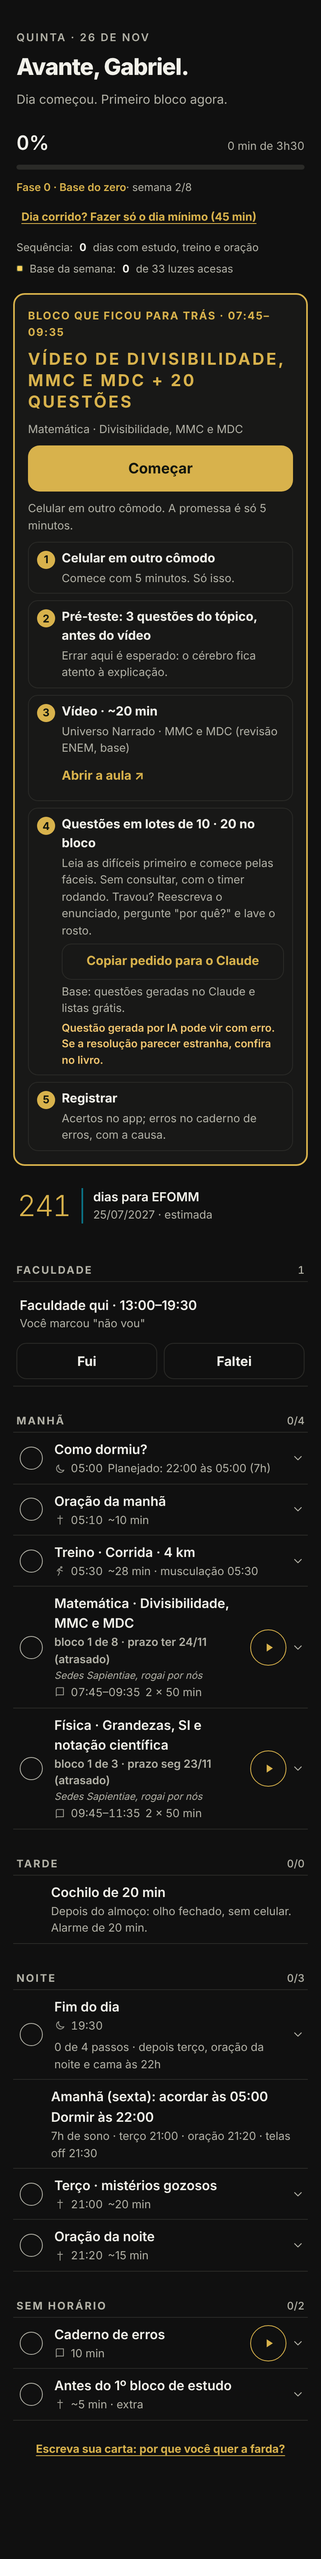
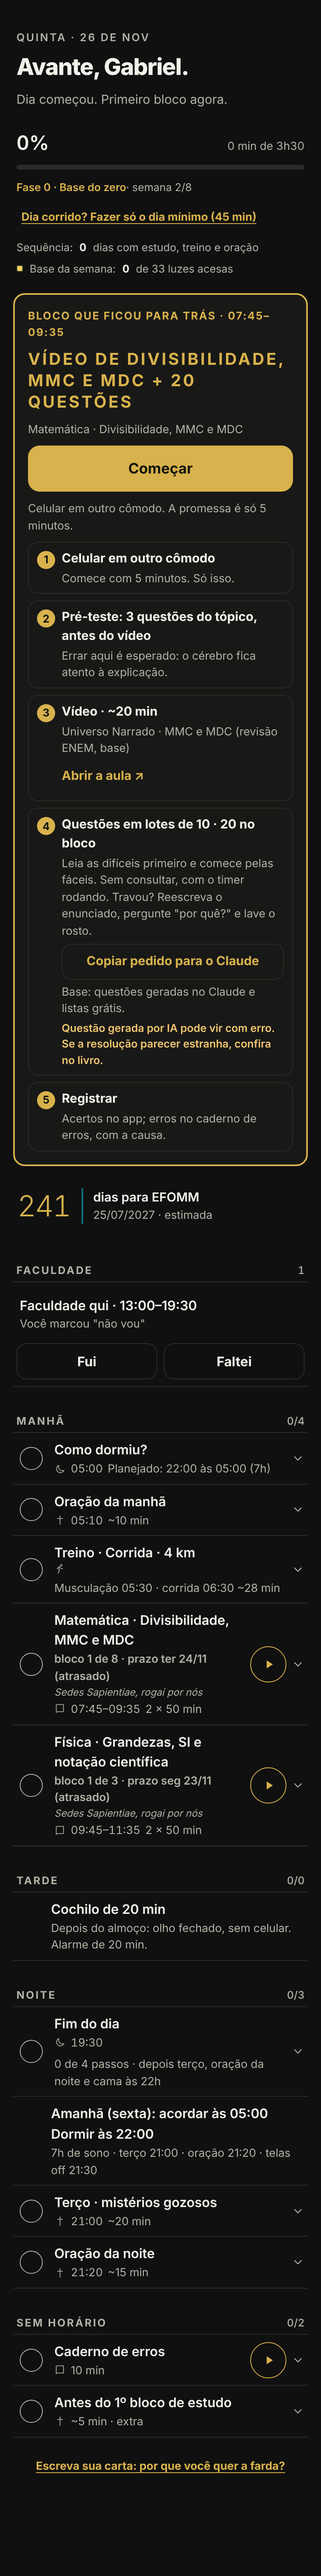
WIP: correções do revisor na rotina 41h (checkpoint)
Claude-Session: https://claude.ai/code/session_018XmdgBTzAW2i8pzxkZNDQ8

diff --git a/src/stores/app.svelte.js b/src/stores/app.svelte.js
@@ -11,7 +11,7 @@ import { treinar } from '../lib/erros.js';
 import { montar } from '../lib/backup.js';
 import { migrarCfg } from '../lib/migracao.js';
 import { migrarLacunas, migrarDominio, migrarDone } from '../lib/trilha.js';
-import { avaliarTopico, chave as chaveTopico, resumo as resumoTopico, destravar } from '../lib/dominio.js';
+import { avaliarTopico, chave as chaveTopico, resumo as resumoTopico, destravar, marcarLegado } from '../lib/dominio.js';
 import { faseDoDia, maxExtraZero, proximaProva } from '../lib/phases.js';
 import { reservasDaSemana, proximaPergunta } from '../lib/oracao.js';
 import { ajustarLeitura } from '../lib/livros.js';
@@ -22,6 +22,7 @@ import { blocosAjustados } from '../lib/planner.js';
 import { diaLivre, antesDoInicio } from '../lib/rotina.js';
 import { resumoDoDia, RESUMO_DIAS } from '../lib/avisos.js';
 import { agendarTelas, registrarPeriodico } from '../lib/notify.js';
+import { limparSemanasTreino } from '../lib/treino.js';
 import { agendarRefazer } from '../lib/provasantigas.js';
 
 // Dados guardados como chave única no "kv" do IndexedDB.
@@ -54,7 +55,7 @@ export async function iniciar() {
   aplicarPrefs(pf());
   Object.assign(app, { done, reviews, errors, exams });
   chaves.forEach((k, i) => { app[k] = extras[i] ?? structuredClone(EXTRAS[k]); });
-  if (antes < 17) { app.treinoSemanas = {}; await salvarKV('treinoSemanas'); } // km editados do plano antigo (ultra/maratona) não valem no volume estável
+  if (antes < 17) await migrarV17();
   if (antes < 12) await migrarEstadosAntigos(); // notas, domínio e blocos dos tópicos antigos passam para os novos (campo `antigos`)
   app.timer = timer ?? null;
   app.ultimoBackup = ultimoBackup ?? null;
@@ -84,6 +85,11 @@ export function virarDia() {
 }
 function atualizarSW() { try { navigator.serviceWorker?.getRegistration().then((r) => r?.update()).catch(() => {}); } catch {} }
 
+/** v17: domínio da regra antiga fica como legado (continua dominado) e só os km planejados de semanas atuais e futuras do plano antigo saem. */
+async function migrarV17() {
+  app.dominio = marcarLegado(app.dominio); await salvarKV('dominio');
+  app.treinoSemanas = limparSemanasTreino(app.treinoSemanas, app.dia); await salvarKV('treinoSemanas');
+}
 /** Notas (lacunas), estado do domínio e blocos feitos: o que era de tópico antigo vale também no tópico novo; o antigo não é apagado. */
 async function migrarEstadosAntigos() {
   app.lacunas = migrarLacunas(app.lacunas, app.cfg.topicos); await salvarKV('lacunas');
@@ -505,7 +511,7 @@ export async function importar(d) {
   const antes = d.cfg.versaoSeed ?? 1;
   app.cfg = migrarCfg(d.cfg, seed); await salvarCfg(); // backup antigo também recebe o conteúdo novo do seed
   if (antes < 12) await migrarEstadosAntigos();
-  if (antes < 17) { app.treinoSemanas = {}; await salvarKV('treinoSemanas'); }
+  if (antes < 17) await migrarV17();
 }
 export async function restaurarSeed() {
   const manter = { prefs: app.cfg.prefs, carta: app.cfg.carta, links: app.cfg.links, notaCorte: app.cfg.notaCorte, tema: app.cfg.tema, tom: app.cfg.tom,

diff --git a/src/lib/dominio.js b/src/lib/dominio.js
@@ -24,6 +24,7 @@ export function resumo(estado) {
   const ent = Object.entries(estado?.regs ?? {}).sort((a, b) => (a[1].data ?? '').localeCompare(b[1].data ?? '') || a[0].localeCompare(b[0]));
   const regs = ent.map(([, r]) => r);
   let primeira = null, dominado = false;
+  if (estado?.legado && Object.values(estado.regs ?? {}).some((r) => vale(r) && passou(r))) dominado = true; // regra antiga: 1 aprovação já dominava (marcado na migração v17)
   for (const r of regs) {
     if (!vale(r)) continue;
     if (passou(r)) {
@@ -39,16 +40,18 @@ export function resumo(estado) {
     primeira: aguarda ? primeira : null, retesteEm: aguarda ? addDays(primeira, DIAS_RETESTE) : null };
 }
 
-/** O tópico passou uma vez e espera o reteste (ainda não é dominado). */
-export const aguardaReteste = (estado) => !!resumo(estado).retesteEm;
+/** O tópico passou uma vez e espera o reteste (ainda não é dominado). Nota 3 na Trilha (dominado) nunca espera reteste. */
+export const aguardaReteste = (estado, nota = 0) => (nota ?? 0) < 3 && !!resumo(estado).retesteEm;
+/** Migração v17: estados do modo domínio da regra antiga (1 aprovação bastava) ficam marcados como `legado` e continuam dominados. */
+export const marcarLegado = (dominio) => Object.fromEntries(Object.entries(dominio ?? {}).map(([k, e]) => [k, e && !e.legado && Object.values(e.regs ?? {}).some((r) => vale(r) && passou(r)) ? { ...e, legado: true } : e]));
 
 /** Retestes que valem hoje: [{ materia, topico, desde, em }] (a 1ª aprovação foi há 3 dias ou mais e o tópico ainda não foi dominado). */
-export const retestesDoDia = (dominio, dia) => Object.entries(dominio ?? {})
-  .map(([k, e]) => { const r = resumo(e); const [materia, topico] = k.split('|'); return r.retesteEm && r.retesteEm <= dia ? { materia, topico, desde: r.primeira, em: r.retesteEm } : null; })
+export const retestesDoDia = (dominio, dia, lacunas = {}) => Object.entries(dominio ?? {})
+  .map(([k, e]) => { const r = resumo(e); const [materia, topico] = k.split('|'); return r.retesteEm && r.retesteEm <= dia && (lacunas?.[materia]?.[topico] ?? 0) < 3 ? { materia, topico, desde: r.primeira, em: r.retesteEm } : null; })
   .filter(Boolean).sort((a, b) => a.em.localeCompare(b.em) || a.topico.localeCompare(b.topico));
 /** Retestes ainda por vir: o mesmo formato, para mostrar "reteste em dd/mm". */
-export const retestesAgendados = (dominio, dia) => Object.entries(dominio ?? {})
-  .map(([k, e]) => { const r = resumo(e); const [materia, topico] = k.split('|'); return r.retesteEm && r.retesteEm > dia ? { materia, topico, desde: r.primeira, em: r.retesteEm } : null; })
+export const retestesAgendados = (dominio, dia, lacunas = {}) => Object.entries(dominio ?? {})
+  .map(([k, e]) => { const r = resumo(e); const [materia, topico] = k.split('|'); return r.retesteEm && r.retesteEm > dia && (lacunas?.[materia]?.[topico] ?? 0) < 3 ? { materia, topico, desde: r.primeira, em: r.retesteEm } : null; })
   .filter(Boolean).sort((a, b) => a.em.localeCompare(b.em) || a.topico.localeCompare(b.topico));
 
 /**

diff --git a/tests/treino.test.js b/tests/treino.test.js
@@ -1,6 +1,6 @@
 import { describe, it, expect } from 'vitest';
 import seed from '../src/data/seed.json';
-import { planoSemanaCorrida, treinoDoDia, alertasTreino, sequencia, kmDaSemana, textoResumoCorrida, tiposDaSemana } from '../src/lib/treino.js';
+import { limparSemanasTreino, planoSemanaCorrida, treinoDoDia, alertasTreino, sequencia, kmDaSemana, textoResumoCorrida, tiposDaSemana } from '../src/lib/treino.js';
 import { addDays } from '../src/lib/dates.js';
 import { legado } from './_legado.js';
 
@@ -35,7 +35,11 @@ describe('treino (SPEC v2): sem prova como meta, volume estável', () => {
   });
   it('corrida curta de segunda termina até 6h50', () => {
     const t = treinoDoDia(cfg(), '2026-11-23', {}), [h, m] = t.horaCorrida.split(':').map(Number);
-    expect(h * 60 + m + t.min).toBeLessThanOrEqual(6 * 60 + 52);
+    expect(h * 60 + m + t.min).toBeLessThanOrEqual(6 * 60 + 50);
+  });
+  it('migração v17: semanas passadas de treinoSemanas ficam; atual e futuras (plano antigo) saem', () => {
+    const s = { '2026-11-16': { dias: { 1: 3 } }, '2026-11-23': { dias: { 1: 9 } }, '2026-11-30': { dias: { 1: 9 } } };
+    expect(limparSemanasTreino(s, '2026-11-25')).toEqual({ '2026-11-16': { dias: { 1: 3 } } });
   });
   it('antes do início não há treino', () => expect(treinoDoDia(cfg(), '2026-11-10', {})).toBeNull());
   it('dor > 3/10 ou inchaço vira caminhada com alerta; noite curta tira a corrida forte', () => {

diff --git a/tests/dominio.test.js b/tests/dominio.test.js
@@ -148,3 +148,16 @@ describe('revisão: correções e travados', () => {
     expect(r.nome).toBe('B');
   });
 });
+
+describe('regra antiga (1 aprovação) vira legado e nunca gera reteste', () => {
+  const est = { regs: { b: { feitas: 10, acertos: 9, data: '2026-10-01' } } };
+  it('9/10 em 01/10 com nota 3: dominado, sem reteste nem aguarda', async () => {
+    const { retestesDoDia, retestesAgendados, aguardaReteste, marcarLegado, resumo } = await import('../src/lib/dominio.js');
+    const dom = { 'Matemática|A': est }, lac = { Matemática: { A: 3 } };
+    expect(retestesDoDia(dom, '2026-12-01', lac)).toEqual([]); expect(retestesAgendados(dom, '2026-10-02', lac)).toEqual([]);
+    expect(aguardaReteste(est, 3)).toBe(false); expect(aguardaReteste(est, 2)).toBe(true);
+    const leg = marcarLegado(dom);
+    expect(leg['Matemática|A'].legado).toBe(true); expect(resumo(leg['Matemática|A'])).toMatchObject({ dominado: true, retesteEm: null });
+    expect(marcarLegado({ x: { regs: { b: { feitas: 10, acertos: 5, data: '2026-10-01' } } } }).x.legado).toBeUndefined(); // reprovado: não é legado
+  });
+});

diff --git a/src/lib/prazos.js b/src/lib/prazos.js
@@ -234,7 +234,7 @@ export function escolherTopico(cfg, plano, materia, st, dia) {
   const zero = st.faseId === 'zero', sem = semConteudoNovo(st.faseId);
   const feito = (i) => st.feitos?.[chave(materia, i.nome)] ?? 0;
   const livre = (i) => !dominadoT(st.lacunas, materia, i.nome) && !emDivida(i, st, dia) && !prereqPendentes(plano, st.lacunas, i).length && !st.excluir?.has(i.nome) && !estaTravado(st.dominio?.[chave(materia, i.nome)]) // travado (3 tentativas): precisa de ajuda antes
-    && !aguardaReteste(st.dominio?.[chave(materia, i.nome)]) // passou uma vez: o reteste (3 dias depois) é um item à parte
+    && !aguardaReteste(st.dominio?.[chave(materia, i.nome)], st.lacunas?.[materia]?.[i.nome]) // passou uma vez: o reteste (3 dias depois) é um item à parte
     && !falhouMatar(st.dominio, materia, i.nome, st.lacunas); // não matou: vai para o resgate do sábado e o plano segue com o próximo
   const abertos = lista.filter((i) => livre(i) && (zero ? i.ano === 0 : true) && (sem ? feito(i) > 0 : true));
   const monta = (i, extra = {}) => {

diff --git a/src/lib/trilha.js b/src/lib/trilha.js
@@ -29,7 +29,7 @@ export function proximoTopico(cfg, lacunas, materia, janela = 3, excluir = new S
   let lista = topicosDe(cfg, materia);
   if (faseZero) lista = lista.filter((t) => t.fase === 0);
   const travado = (t) => estaTravado(dominio[`${materia}|${t.nome}`]);
-  const livre = (t) => dominio_(lacunas, materia, t) < 3 && !travado(t) && !aguardaReteste(dominio[`${materia}|${t.nome}`]) && !excluir.has(t.nome); // `excluir`: tópicos que já usaram todo o livro no dia
+  const livre = (t) => dominio_(lacunas, materia, t) < 3 && !travado(t) && !aguardaReteste(dominio[`${materia}|${t.nome}`], lacunas?.[materia]?.[t.nome]) && !excluir.has(t.nome); // `excluir`: tópicos que já usaram todo o livro no dia
   const primeiro = lista.findIndex(livre);
   if (primeiro >= 0) {
     const cand = lista.slice(primeiro, primeiro + (faseZero ? 1 : janela)).filter(livre);

diff --git a/src/screens/Hoje.svelte b/src/screens/Hoje.svelte
@@ -112,8 +112,8 @@
   const tarefasOntem = $derived((app.fimDia[addDays(app.dia, -1)]?.tarefas ?? '').trim());
   const atual = $derived(!diag && !dificil ? blocoAtual(blocos, (b) => !!app.done[b.id], agoraMin) : null);
   const ctxPasso = (b) => ({ primeiroDoDia: b?.id === primeiroId, questaoDificil: questaoOntem });
-  const retestes = $derived(retestesDoDia(app.dominio, app.dia));
-  const retestesFuturos = $derived(retestesAgendados(app.dominio, app.dia));
+  const retestes = $derived(retestesDoDia(app.dominio, app.dia, app.lacunas));
+  const retestesFuturos = $derived(retestesAgendados(app.dominio, app.dia, app.lacunas));
   let resRet = $state({});
   const avisoCaderno = $derived(avisoCadernoAntesDaProva(Object.values(app.errors), prox?.dias ?? null));
 

diff --git a/src/components/Treino.svelte b/src/components/Treino.svelte
@@ -18,9 +18,9 @@
 </script>
 
 {#if t}
-  <Linha {feito} label="Treino feito" onToggle={marcar} {aberto} {onAbrir} icone="run" hora={t.hora ?? ''}
+  <Linha {feito} label="Treino feito" onToggle={marcar} {aberto} {onAbrir} icone="run" hora=""
     titulo={`Treino · ${t.prova ? t.prova.nome : NOME[t.tipo] ?? 'Corrida'}${t.km ? ` · ${kmTxt(t.km)} km` : ''}`}
-    sub={`${t.min ? `~${t.min} min` : t.intensidade}${t.musculacao ? ` · musculação ${t.musculacao.ini}` : ''}${t.semanaLeve ? ' · semana leve' : ''}`}
+    sub={`${t.musculacao ? `Musculação ${t.musculacao.ini} · ` : ''}corrida ${t.horaCorrida ?? ''}${t.min ? ` ~${t.min} min` : ''}`}
     aviso={t.alerta || t.choque || ''}>
     <p class="mut">{t.intensidade}</p>
     <ul class="info">

diff --git a/src/lib/treino.js b/src/lib/treino.js
@@ -123,6 +123,9 @@ export function sequencia(cfg, { cumpridos = {}, treinos = {}, oracoes = {} }, h
   return n;
 }
 
+/** Migração v17: `treinoSemanas` só guarda km planejados no domingo. Semanas passadas ficam (histórico); a atual e as futuras, calculadas no plano antigo (ultra/maratona), saem. */
+export const limparSemanasTreino = (semanas, hoje) => Object.fromEntries(Object.entries(semanas ?? {}).filter(([seg]) => seg < startOfWeek(hoje)));
+
 /** Km feitos na semana (registros) e a meta. */
 export function kmDaSemana(cfg, seg, treinos = {}, editadas = {}) {
   const feitos = Array.from({ length: 7 }, (_, i) => addDays(seg, i)).reduce((a, d) => a + (+treinos[d]?.km || 0), 0);
